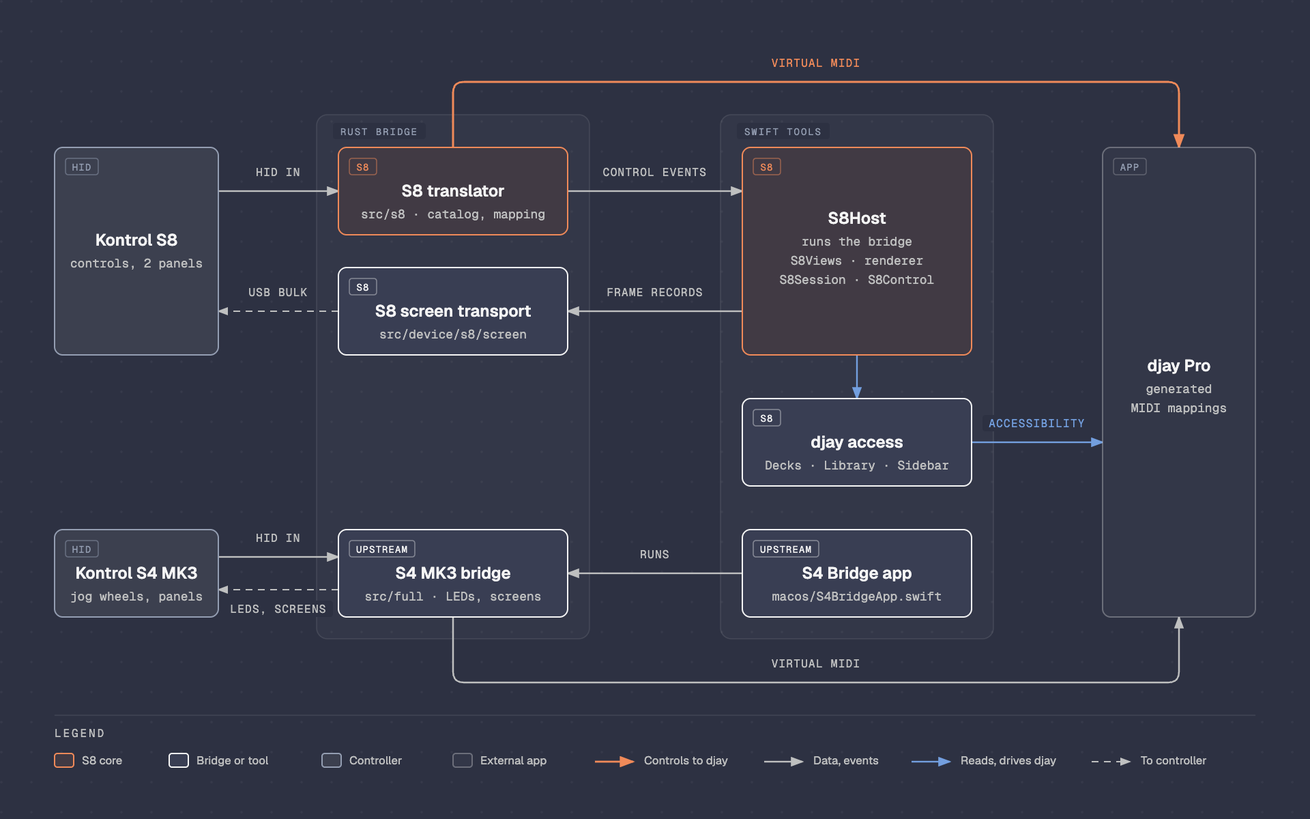
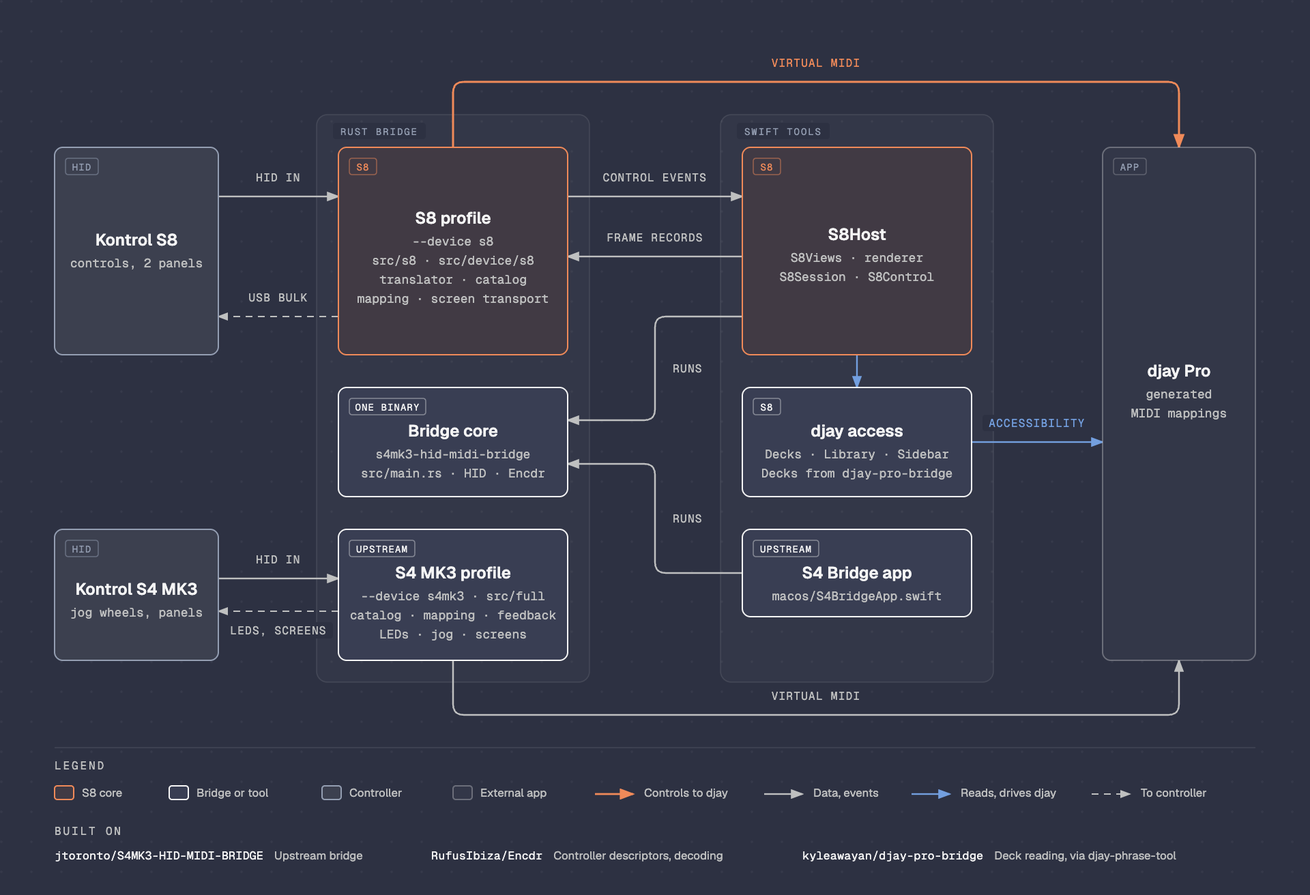
docs: show the one bridge binary and source repositories in the diagram
Both controllers run the same Rust binary with a device profile; S8Host and the S4 MK3 app each start it. The S4 MK3 profile lists its Rust modules, and the README links the repositories the bridge builds on. Refs #122.

diff --git a/docs/s8/images/architecture.html b/docs/s8/images/architecture.html
@@ -71,9 +71,9 @@
     <h1>Two controllers, one bridge, djay Pro</h1>
 
     <div class="diagram-container">
-      <svg viewBox="0 0 960 600" xmlns="http://www.w3.org/2000/svg" role="img" aria-labelledby="architecture-title architecture-desc">
+      <svg viewBox="0 0 960 656" xmlns="http://www.w3.org/2000/svg" role="img" aria-labelledby="architecture-title architecture-desc">
         <title id="architecture-title">Bridge architecture: Kontrol S8 and S4 MK3 to djay Pro</title>
-        <desc id="architecture-desc">The Rust bridge turns Kontrol S8 and S4 MK3 HID input into virtual MIDI for djay Pro, while the Swift S8Host reads djay through Accessibility and sends panel frames back to the S8 through the bridge.</desc>
+        <desc id="architecture-desc">One Rust bridge binary serves both controllers: S8Host and the S4 Bridge app each run it with their device profile, and it turns HID input into virtual MIDI for djay Pro, while S8Host reads djay through Accessibility and sends panel frames back to the S8.</desc>
         <defs>
           <marker id="arrow" markerWidth="8" markerHeight="6" refX="7" refY="3" orient="auto"><polygon points="0 0, 8 3, 0 6" fill="#bfc0c0"/></marker>
           <marker id="arrow-accent" markerWidth="8" markerHeight="6" refX="7" refY="3" orient="auto"><polygon points="0 0, 8 3, 0 6" fill="#f08a59"/></marker>
@@ -87,47 +87,50 @@
 
         <rect width="100%" height="100%" fill="url(#dots)" opacity="0.55"/>
         <!-- Zones (drawn before arrows and nodes) -->
-        <rect x="232" y="84" width="200" height="384" rx="8" fill="rgba(245,245,245,0.03)" stroke="rgba(245,245,245,0.10)" stroke-width="0.8"/>
+        <rect x="232" y="84" width="200" height="416" rx="8" fill="rgba(245,245,245,0.03)" stroke="rgba(245,245,245,0.10)" stroke-width="0.8"/>
         <rect x="244" y="90" width="68" height="12" rx="2" fill="#2d3142"/>
         <text x="278" y="99" fill="#949eb2" font-size="7" font-family="'Geist Mono', monospace" text-anchor="middle" letter-spacing="0.14em">RUST BRIDGE</text>
-        <rect x="528" y="84" width="200" height="384" rx="8" fill="rgba(245,245,245,0.03)" stroke="rgba(245,245,245,0.10)" stroke-width="0.8"/>
+        <rect x="528" y="84" width="200" height="416" rx="8" fill="rgba(245,245,245,0.03)" stroke="rgba(245,245,245,0.10)" stroke-width="0.8"/>
         <rect x="540" y="90" width="68" height="12" rx="2" fill="#2d3142"/>
         <text x="574" y="99" fill="#949eb2" font-size="7" font-family="'Geist Mono', monospace" text-anchor="middle" letter-spacing="0.14em">SWIFT TOOLS</text>
 
         <!-- Arrows first (behind boxes) -->
-        <line x1="160" y1="140" x2="248" y2="140" stroke="#bfc0c0" stroke-width="1.2" marker-end="url(#arrow)"/>
-        <line x1="248" y1="228" x2="160" y2="228" stroke="#bfc0c0" stroke-width="1" stroke-dasharray="5,4" marker-end="url(#arrow)"/>
+        <line x1="160" y1="144" x2="248" y2="144" stroke="#bfc0c0" stroke-width="1.2" marker-end="url(#arrow)"/>
+        <line x1="248" y1="232" x2="160" y2="232" stroke="#bfc0c0" stroke-width="1" stroke-dasharray="5,4" marker-end="url(#arrow)"/>
         <path d="M 332,108 V 68 Q 332,60 340,60 H 856 Q 864,60 864,68 V 108" fill="none" stroke="#f08a59" stroke-width="1.4" marker-end="url(#arrow-accent)"/>
-        <line x1="416" y1="140" x2="544" y2="140" stroke="#bfc0c0" stroke-width="1.2" marker-end="url(#arrow)"/>
-        <line x1="544" y1="228" x2="416" y2="228" stroke="#bfc0c0" stroke-width="1.2" marker-end="url(#arrow)"/>
-        <line x1="628" y1="260" x2="628" y2="292" stroke="#739fdf" stroke-width="1.2" marker-end="url(#arrow-link)"/>
+        <line x1="416" y1="144" x2="544" y2="144" stroke="#bfc0c0" stroke-width="1.2" marker-end="url(#arrow)"/>
+        <line x1="544" y1="188" x2="416" y2="188" stroke="#bfc0c0" stroke-width="1.2" marker-end="url(#arrow)"/>
+        <path d="M 544,232 H 488 Q 480,232 480,240 V 300 Q 480,308 472,308 H 416" fill="none" stroke="#bfc0c0" stroke-width="1.2" marker-end="url(#arrow)"/>
+        <line x1="628" y1="260" x2="628" y2="284" stroke="#739fdf" stroke-width="1.2" marker-end="url(#arrow-link)"/>
         <line x1="712" y1="324" x2="808" y2="324" stroke="#739fdf" stroke-width="1.2" marker-end="url(#arrow-link)"/>
-        <line x1="160" y1="408" x2="248" y2="408" stroke="#bfc0c0" stroke-width="1.2" marker-end="url(#arrow)"/>
-        <line x1="248" y1="432" x2="160" y2="432" stroke="#bfc0c0" stroke-width="1" stroke-dasharray="5,4" marker-end="url(#arrow)"/>
-        <line x1="544" y1="420" x2="416" y2="420" stroke="#bfc0c0" stroke-width="1.2" marker-end="url(#arrow)"/>
-        <path d="M 332,452 V 492 Q 332,500 340,500 H 856 Q 864,500 864,492 V 452" fill="none" stroke="#bfc0c0" stroke-width="1.2" marker-end="url(#arrow)"/>
+        <path d="M 544,420 H 488 Q 480,420 480,412 V 348 Q 480,340 472,340 H 416" fill="none" stroke="#bfc0c0" stroke-width="1.2" marker-end="url(#arrow)"/>
+        <line x1="160" y1="424" x2="248" y2="424" stroke="#bfc0c0" stroke-width="1.2" marker-end="url(#arrow)"/>
+        <line x1="248" y1="448" x2="160" y2="448" stroke="#bfc0c0" stroke-width="1" stroke-dasharray="5,4" marker-end="url(#arrow)"/>
+        <path d="M 332,484 V 516 Q 332,524 340,524 H 856 Q 864,524 864,516 V 484" fill="none" stroke="#bfc0c0" stroke-width="1.2" marker-end="url(#arrow)"/>
 
         <!-- Arrow labels -->
-        <rect x="182" y="120" width="44" height="12" rx="2" fill="#2d3142"/>
-        <text x="204" y="129" fill="#bfc0c0" font-size="8" font-family="'Geist Mono', monospace" text-anchor="middle" letter-spacing="0.08em">HID IN</text>
-        <rect x="178" y="208" width="52" height="12" rx="2" fill="#2d3142"/>
-        <text x="204" y="217" fill="#bfc0c0" font-size="8" font-family="'Geist Mono', monospace" text-anchor="middle" letter-spacing="0.08em">USB BULK</text>
+        <rect x="182" y="124" width="44" height="12" rx="2" fill="#2d3142"/>
+        <text x="204" y="133" fill="#bfc0c0" font-size="8" font-family="'Geist Mono', monospace" text-anchor="middle" letter-spacing="0.08em">HID IN</text>
+        <rect x="178" y="212" width="52" height="12" rx="2" fill="#2d3142"/>
+        <text x="204" y="221" fill="#bfc0c0" font-size="8" font-family="'Geist Mono', monospace" text-anchor="middle" letter-spacing="0.08em">USB BULK</text>
         <rect x="560" y="40" width="76" height="12" rx="2" fill="#2d3142"/>
         <text x="598" y="49" fill="#f08a59" font-size="8" font-family="'Geist Mono', monospace" text-anchor="middle" letter-spacing="0.08em">VIRTUAL MIDI</text>
-        <rect x="436" y="120" width="88" height="12" rx="2" fill="#2d3142"/>
-        <text x="480" y="129" fill="#bfc0c0" font-size="8" font-family="'Geist Mono', monospace" text-anchor="middle" letter-spacing="0.08em">CONTROL EVENTS</text>
-        <rect x="440" y="208" width="80" height="12" rx="2" fill="#2d3142"/>
-        <text x="480" y="217" fill="#bfc0c0" font-size="8" font-family="'Geist Mono', monospace" text-anchor="middle" letter-spacing="0.08em">FRAME RECORDS</text>
+        <rect x="436" y="124" width="88" height="12" rx="2" fill="#2d3142"/>
+        <text x="480" y="133" fill="#bfc0c0" font-size="8" font-family="'Geist Mono', monospace" text-anchor="middle" letter-spacing="0.08em">CONTROL EVENTS</text>
+        <rect x="440" y="168" width="80" height="12" rx="2" fill="#2d3142"/>
+        <text x="480" y="177" fill="#bfc0c0" font-size="8" font-family="'Geist Mono', monospace" text-anchor="middle" letter-spacing="0.08em">FRAME RECORDS</text>
+        <rect x="488" y="264" width="32" height="12" rx="2" fill="#2d3142"/>
+        <text x="504" y="273" fill="#bfc0c0" font-size="8" font-family="'Geist Mono', monospace" text-anchor="middle" letter-spacing="0.08em">RUNS</text>
         <rect x="720" y="304" width="80" height="12" rx="2" fill="#2d3142"/>
         <text x="760" y="313" fill="#739fdf" font-size="8" font-family="'Geist Mono', monospace" text-anchor="middle" letter-spacing="0.08em">ACCESSIBILITY</text>
-        <rect x="182" y="388" width="44" height="12" rx="2" fill="#2d3142"/>
-        <text x="204" y="397" fill="#bfc0c0" font-size="8" font-family="'Geist Mono', monospace" text-anchor="middle" letter-spacing="0.08em">HID IN</text>
-        <rect x="164" y="440" width="80" height="12" rx="2" fill="#2d3142"/>
-        <text x="204" y="449" fill="#bfc0c0" font-size="8" font-family="'Geist Mono', monospace" text-anchor="middle" letter-spacing="0.08em">LEDS, SCREENS</text>
-        <rect x="464" y="400" width="32" height="12" rx="2" fill="#2d3142"/>
-        <text x="480" y="409" fill="#bfc0c0" font-size="8" font-family="'Geist Mono', monospace" text-anchor="middle" letter-spacing="0.08em">RUNS</text>
-        <rect x="560" y="480" width="76" height="12" rx="2" fill="#2d3142"/>
-        <text x="598" y="489" fill="#bfc0c0" font-size="8" font-family="'Geist Mono', monospace" text-anchor="middle" letter-spacing="0.08em">VIRTUAL MIDI</text>
+        <rect x="488" y="374" width="32" height="12" rx="2" fill="#2d3142"/>
+        <text x="504" y="383" fill="#bfc0c0" font-size="8" font-family="'Geist Mono', monospace" text-anchor="middle" letter-spacing="0.08em">RUNS</text>
+        <rect x="182" y="404" width="44" height="12" rx="2" fill="#2d3142"/>
+        <text x="204" y="413" fill="#bfc0c0" font-size="8" font-family="'Geist Mono', monospace" text-anchor="middle" letter-spacing="0.08em">HID IN</text>
+        <rect x="164" y="456" width="80" height="12" rx="2" fill="#2d3142"/>
+        <text x="204" y="465" fill="#bfc0c0" font-size="8" font-family="'Geist Mono', monospace" text-anchor="middle" letter-spacing="0.08em">LEDS, SCREENS</text>
+        <rect x="560" y="504" width="76" height="12" rx="2" fill="#2d3142"/>
+        <text x="598" y="513" fill="#bfc0c0" font-size="8" font-family="'Geist Mono', monospace" text-anchor="middle" letter-spacing="0.08em">VIRTUAL MIDI</text>
 
         <!-- Node: Kontrol S8 -->
         <rect x="40" y="108" width="120" height="152" rx="6" fill="#2d3142"/>
@@ -137,49 +140,55 @@
         <text x="100" y="180" fill="#f5f5f5" font-size="12" font-weight="600" font-family="'Geist', sans-serif" text-anchor="middle">Kontrol S8</text>
         <text x="100" y="196" fill="#bfc0c0" font-size="9" font-family="'Geist Mono', monospace" text-anchor="middle">controls, 2 panels</text>
         <!-- Node: Kontrol S4 MK3 -->
-        <rect x="40" y="388" width="120" height="64" rx="6" fill="#2d3142"/>
-        <rect x="40" y="388" width="120" height="64" rx="6" fill="rgba(191,192,192,0.10)" stroke="#949eb2" stroke-width="1"/>
+        <rect x="40" y="388" width="120" height="96" rx="6" fill="#2d3142"/>
+        <rect x="40" y="388" width="120" height="96" rx="6" fill="rgba(191,192,192,0.10)" stroke="#949eb2" stroke-width="1"/>
         <rect x="48" y="396" width="24" height="12" rx="2" fill="transparent" stroke="rgba(148,158,178,0.50)" stroke-width="0.8"/>
         <text x="60" y="405" fill="#949eb2" font-size="7" font-family="'Geist Mono', monospace" text-anchor="middle" letter-spacing="0.08em">HID</text>
-        <text x="100" y="424" fill="#f5f5f5" font-size="12" font-weight="600" font-family="'Geist', sans-serif" text-anchor="middle">Kontrol S4 MK3</text>
-        <text x="100" y="440" fill="#bfc0c0" font-size="9" font-family="'Geist Mono', monospace" text-anchor="middle">jog wheels, panels</text>
-        <!-- Node: S8 translator (focal) -->
-        <rect x="248" y="108" width="168" height="64" rx="6" fill="#2d3142"/>
-        <rect x="248" y="108" width="168" height="64" rx="6" fill="rgba(240,138,89,0.10)" stroke="#f08a59" stroke-width="1"/>
+        <text x="100" y="436" fill="#f5f5f5" font-size="12" font-weight="600" font-family="'Geist', sans-serif" text-anchor="middle">Kontrol S4 MK3</text>
+        <text x="100" y="452" fill="#bfc0c0" font-size="9" font-family="'Geist Mono', monospace" text-anchor="middle">jog wheels, panels</text>
+        <!-- Node: S8 profile (focal) -->
+        <rect x="248" y="108" width="168" height="152" rx="6" fill="#2d3142"/>
+        <rect x="248" y="108" width="168" height="152" rx="6" fill="rgba(240,138,89,0.10)" stroke="#f08a59" stroke-width="1"/>
         <rect x="256" y="116" width="20" height="12" rx="2" fill="transparent" stroke="rgba(240,138,89,0.50)" stroke-width="0.8"/>
         <text x="266" y="125" fill="#f08a59" font-size="7" font-family="'Geist Mono', monospace" text-anchor="middle" letter-spacing="0.08em">S8</text>
-        <text x="332" y="144" fill="#f5f5f5" font-size="12" font-weight="600" font-family="'Geist', sans-serif" text-anchor="middle">S8 translator</text>
-        <text x="332" y="160" fill="#bfc0c0" font-size="9" font-family="'Geist Mono', monospace" text-anchor="middle">src/s8 · catalog, mapping</text>
-        <!-- Node: S8 screen transport -->
-        <rect x="248" y="196" width="168" height="64" rx="6" fill="#2d3142"/>
-        <rect x="248" y="196" width="168" height="64" rx="6" fill="#393e53" stroke="#f5f5f5" stroke-width="1"/>
-        <rect x="256" y="204" width="20" height="12" rx="2" fill="transparent" stroke="rgba(245,245,245,0.40)" stroke-width="0.8"/>
-        <text x="266" y="213" fill="#f5f5f5" font-size="7" font-family="'Geist Mono', monospace" text-anchor="middle" letter-spacing="0.08em">S8</text>
-        <text x="332" y="232" fill="#f5f5f5" font-size="12" font-weight="600" font-family="'Geist', sans-serif" text-anchor="middle">S8 screen transport</text>
-        <text x="332" y="248" fill="#bfc0c0" font-size="9" font-family="'Geist Mono', monospace" text-anchor="middle">src/device/s8/screen</text>
-        <!-- Node: S4 MK3 bridge -->
-        <rect x="248" y="388" width="168" height="64" rx="6" fill="#2d3142"/>
-        <rect x="248" y="388" width="168" height="64" rx="6" fill="#393e53" stroke="#f5f5f5" stroke-width="1"/>
+        <text x="332" y="164" fill="#f5f5f5" font-size="12" font-weight="600" font-family="'Geist', sans-serif" text-anchor="middle">S8 profile</text>
+        <text x="332" y="180" fill="#bfc0c0" font-size="9" font-family="'Geist Mono', monospace" text-anchor="middle">--device s8</text>
+        <text x="332" y="194" fill="#bfc0c0" font-size="9" font-family="'Geist Mono', monospace" text-anchor="middle">src/s8 · src/device/s8</text>
+        <text x="332" y="208" fill="#bfc0c0" font-size="9" font-family="'Geist Mono', monospace" text-anchor="middle">translator · catalog</text>
+        <text x="332" y="222" fill="#bfc0c0" font-size="9" font-family="'Geist Mono', monospace" text-anchor="middle">mapping · screen transport</text>
+        <!-- Node: Bridge core -->
+        <rect x="248" y="284" width="168" height="80" rx="6" fill="#2d3142"/>
+        <rect x="248" y="284" width="168" height="80" rx="6" fill="#393e53" stroke="#f5f5f5" stroke-width="1"/>
+        <rect x="256" y="292" width="56" height="12" rx="2" fill="transparent" stroke="rgba(245,245,245,0.40)" stroke-width="0.8"/>
+        <text x="284" y="301" fill="#f5f5f5" font-size="7" font-family="'Geist Mono', monospace" text-anchor="middle" letter-spacing="0.08em">ONE BINARY</text>
+        <text x="332" y="320" fill="#f5f5f5" font-size="12" font-weight="600" font-family="'Geist', sans-serif" text-anchor="middle">Bridge core</text>
+        <text x="332" y="336" fill="#bfc0c0" font-size="9" font-family="'Geist Mono', monospace" text-anchor="middle">s4mk3-hid-midi-bridge</text>
+        <text x="332" y="350" fill="#bfc0c0" font-size="9" font-family="'Geist Mono', monospace" text-anchor="middle">src/main.rs · HID · Encdr</text>
+        <!-- Node: S4 MK3 profile -->
+        <rect x="248" y="388" width="168" height="96" rx="6" fill="#2d3142"/>
+        <rect x="248" y="388" width="168" height="96" rx="6" fill="#393e53" stroke="#f5f5f5" stroke-width="1"/>
         <rect x="256" y="396" width="48" height="12" rx="2" fill="transparent" stroke="rgba(245,245,245,0.40)" stroke-width="0.8"/>
         <text x="280" y="405" fill="#f5f5f5" font-size="7" font-family="'Geist Mono', monospace" text-anchor="middle" letter-spacing="0.08em">UPSTREAM</text>
-        <text x="332" y="424" fill="#f5f5f5" font-size="12" font-weight="600" font-family="'Geist', sans-serif" text-anchor="middle">S4 MK3 bridge</text>
-        <text x="332" y="440" fill="#bfc0c0" font-size="9" font-family="'Geist Mono', monospace" text-anchor="middle">src/full · LEDs, screens</text>
+        <text x="332" y="424" fill="#f5f5f5" font-size="12" font-weight="600" font-family="'Geist', sans-serif" text-anchor="middle">S4 MK3 profile</text>
+        <text x="332" y="440" fill="#bfc0c0" font-size="9" font-family="'Geist Mono', monospace" text-anchor="middle">--device s4mk3 · src/full</text>
+        <text x="332" y="454" fill="#bfc0c0" font-size="9" font-family="'Geist Mono', monospace" text-anchor="middle">catalog · mapping · feedback</text>
+        <text x="332" y="468" fill="#bfc0c0" font-size="9" font-family="'Geist Mono', monospace" text-anchor="middle">LEDs · jog · screens</text>
         <!-- Node: S8Host (focal) -->
         <rect x="544" y="108" width="168" height="152" rx="6" fill="#2d3142"/>
         <rect x="544" y="108" width="168" height="152" rx="6" fill="rgba(240,138,89,0.10)" stroke="#f08a59" stroke-width="1"/>
         <rect x="552" y="116" width="20" height="12" rx="2" fill="transparent" stroke="rgba(240,138,89,0.50)" stroke-width="0.8"/>
         <text x="562" y="125" fill="#f08a59" font-size="7" font-family="'Geist Mono', monospace" text-anchor="middle" letter-spacing="0.08em">S8</text>
-        <text x="628" y="164" fill="#f5f5f5" font-size="12" font-weight="600" font-family="'Geist', sans-serif" text-anchor="middle">S8Host</text>
-        <text x="628" y="180" fill="#bfc0c0" font-size="9" font-family="'Geist Mono', monospace" text-anchor="middle">runs the bridge</text>
-        <text x="628" y="194" fill="#bfc0c0" font-size="9" font-family="'Geist Mono', monospace" text-anchor="middle">S8Views · renderer</text>
-        <text x="628" y="208" fill="#bfc0c0" font-size="9" font-family="'Geist Mono', monospace" text-anchor="middle">S8Session · S8Control</text>
+        <text x="628" y="176" fill="#f5f5f5" font-size="12" font-weight="600" font-family="'Geist', sans-serif" text-anchor="middle">S8Host</text>
+        <text x="628" y="192" fill="#bfc0c0" font-size="9" font-family="'Geist Mono', monospace" text-anchor="middle">S8Views · renderer</text>
+        <text x="628" y="206" fill="#bfc0c0" font-size="9" font-family="'Geist Mono', monospace" text-anchor="middle">S8Session · S8Control</text>
         <!-- Node: djay access -->
-        <rect x="544" y="292" width="168" height="64" rx="6" fill="#2d3142"/>
-        <rect x="544" y="292" width="168" height="64" rx="6" fill="#393e53" stroke="#f5f5f5" stroke-width="1"/>
-        <rect x="552" y="300" width="20" height="12" rx="2" fill="transparent" stroke="rgba(245,245,245,0.40)" stroke-width="0.8"/>
-        <text x="562" y="309" fill="#f5f5f5" font-size="7" font-family="'Geist Mono', monospace" text-anchor="middle" letter-spacing="0.08em">S8</text>
-        <text x="628" y="328" fill="#f5f5f5" font-size="12" font-weight="600" font-family="'Geist', sans-serif" text-anchor="middle">djay access</text>
-        <text x="628" y="344" fill="#bfc0c0" font-size="9" font-family="'Geist Mono', monospace" text-anchor="middle">Decks · Library · Sidebar</text>
+        <rect x="544" y="284" width="168" height="80" rx="6" fill="#2d3142"/>
+        <rect x="544" y="284" width="168" height="80" rx="6" fill="#393e53" stroke="#f5f5f5" stroke-width="1"/>
+        <rect x="552" y="292" width="20" height="12" rx="2" fill="transparent" stroke="rgba(245,245,245,0.40)" stroke-width="0.8"/>
+        <text x="562" y="301" fill="#f5f5f5" font-size="7" font-family="'Geist Mono', monospace" text-anchor="middle" letter-spacing="0.08em">S8</text>
+        <text x="628" y="320" fill="#f5f5f5" font-size="12" font-weight="600" font-family="'Geist', sans-serif" text-anchor="middle">djay access</text>
+        <text x="628" y="336" fill="#bfc0c0" font-size="9" font-family="'Geist Mono', monospace" text-anchor="middle">Decks · Library · Sidebar</text>
+        <text x="628" y="350" fill="#bfc0c0" font-size="9" font-family="'Geist Mono', monospace" text-anchor="middle">Decks from djay-pro-bridge</text>
         <!-- Node: S4 Bridge app -->
         <rect x="544" y="388" width="168" height="64" rx="6" fill="#2d3142"/>
         <rect x="544" y="388" width="168" height="64" rx="6" fill="#393e53" stroke="#f5f5f5" stroke-width="1"/>
@@ -188,32 +197,37 @@
         <text x="628" y="424" fill="#f5f5f5" font-size="12" font-weight="600" font-family="'Geist', sans-serif" text-anchor="middle">S4 Bridge app</text>
         <text x="628" y="440" fill="#bfc0c0" font-size="9" font-family="'Geist Mono', monospace" text-anchor="middle">macos/S4BridgeApp.swift</text>
         <!-- Node: djay Pro -->
-        <rect x="808" y="108" width="112" height="344" rx="6" fill="#2d3142"/>
-        <rect x="808" y="108" width="112" height="344" rx="6" fill="rgba(245,245,245,0.03)" stroke="rgba(245,245,245,0.30)" stroke-width="1"/>
+        <rect x="808" y="108" width="112" height="376" rx="6" fill="#2d3142"/>
+        <rect x="808" y="108" width="112" height="376" rx="6" fill="rgba(245,245,245,0.03)" stroke="rgba(245,245,245,0.30)" stroke-width="1"/>
         <rect x="816" y="116" width="24" height="12" rx="2" fill="transparent" stroke="rgba(245,245,245,0.22)" stroke-width="0.8"/>
         <text x="828" y="125" fill="#949eb2" font-size="7" font-family="'Geist Mono', monospace" text-anchor="middle" letter-spacing="0.08em">APP</text>
-        <text x="864" y="272" fill="#f5f5f5" font-size="12" font-weight="600" font-family="'Geist', sans-serif" text-anchor="middle">djay Pro</text>
-        <text x="864" y="288" fill="#bfc0c0" font-size="9" font-family="'Geist Mono', monospace" text-anchor="middle">generated</text>
-        <text x="864" y="302" fill="#bfc0c0" font-size="9" font-family="'Geist Mono', monospace" text-anchor="middle">MIDI mappings</text>
+        <text x="864" y="276" fill="#f5f5f5" font-size="12" font-weight="600" font-family="'Geist', sans-serif" text-anchor="middle">djay Pro</text>
+        <text x="864" y="292" fill="#bfc0c0" font-size="9" font-family="'Geist Mono', monospace" text-anchor="middle">generated</text>
+        <text x="864" y="306" fill="#bfc0c0" font-size="9" font-family="'Geist Mono', monospace" text-anchor="middle">MIDI mappings</text>
         <!-- Legend strip -->
-        <line x1="40" y1="524" x2="920" y2="524" stroke="rgba(245,245,245,0.10)" stroke-width="0.8"/>
-        <text x="40" y="540" fill="#bfc0c0" font-size="8" font-family="'Geist Mono', monospace" letter-spacing="0.18em">LEGEND</text>
-        <rect x="40" y="552" width="14" height="10" rx="2" fill="rgba(240,138,89,0.10)" stroke="#f08a59" stroke-width="1"/>
-        <text x="60" y="560" fill="#bfc0c0" font-size="8.5" font-family="'Geist', sans-serif">S8 core</text>
-        <rect x="124" y="552" width="14" height="10" rx="2" fill="#393e53" stroke="#f5f5f5" stroke-width="1"/>
-        <text x="144" y="560" fill="#bfc0c0" font-size="8.5" font-family="'Geist', sans-serif">Bridge or tool</text>
-        <rect x="236" y="552" width="14" height="10" rx="2" fill="rgba(191,192,192,0.10)" stroke="#949eb2" stroke-width="1"/>
-        <text x="256" y="560" fill="#bfc0c0" font-size="8.5" font-family="'Geist', sans-serif">Controller</text>
-        <rect x="332" y="552" width="14" height="10" rx="2" fill="rgba(245,245,245,0.03)" stroke="rgba(245,245,245,0.30)" stroke-width="1"/>
-        <text x="352" y="560" fill="#bfc0c0" font-size="8.5" font-family="'Geist', sans-serif">External app</text>
-        <line x1="436" y1="558" x2="464" y2="558" stroke="#f08a59" stroke-width="1.4" marker-end="url(#arrow-accent)"/>
-        <text x="472" y="560" fill="#bfc0c0" font-size="8.5" font-family="'Geist', sans-serif">Controls to djay</text>
-        <line x1="560" y1="558" x2="588" y2="558" stroke="#bfc0c0" stroke-width="1.2" marker-end="url(#arrow)"/>
-        <text x="596" y="560" fill="#bfc0c0" font-size="8.5" font-family="'Geist', sans-serif">Data, events</text>
-        <line x1="668" y1="558" x2="696" y2="558" stroke="#739fdf" stroke-width="1.2" marker-end="url(#arrow-link)"/>
-        <text x="704" y="560" fill="#bfc0c0" font-size="8.5" font-family="'Geist', sans-serif">Reads, drives djay</text>
-        <line x1="800" y1="558" x2="828" y2="558" stroke="#bfc0c0" stroke-width="1" stroke-dasharray="5,4" marker-end="url(#arrow)"/>
-        <text x="836" y="560" fill="#bfc0c0" font-size="8.5" font-family="'Geist', sans-serif">To controller</text>
+        <line x1="40" y1="548" x2="920" y2="548" stroke="rgba(245,245,245,0.10)" stroke-width="0.8"/>
+        <text x="40" y="564" fill="#bfc0c0" font-size="8" font-family="'Geist Mono', monospace" letter-spacing="0.18em">LEGEND</text>
+        <rect x="40" y="576" width="14" height="10" rx="2" fill="rgba(240,138,89,0.10)" stroke="#f08a59" stroke-width="1"/>
+        <text x="60" y="584" fill="#bfc0c0" font-size="8.5" font-family="'Geist', sans-serif">S8 core</text>
+        <rect x="124" y="576" width="14" height="10" rx="2" fill="#393e53" stroke="#f5f5f5" stroke-width="1"/>
+        <text x="144" y="584" fill="#bfc0c0" font-size="8.5" font-family="'Geist', sans-serif">Bridge or tool</text>
+        <rect x="236" y="576" width="14" height="10" rx="2" fill="rgba(191,192,192,0.10)" stroke="#949eb2" stroke-width="1"/>
+        <text x="256" y="584" fill="#bfc0c0" font-size="8.5" font-family="'Geist', sans-serif">Controller</text>
+        <rect x="332" y="576" width="14" height="10" rx="2" fill="rgba(245,245,245,0.03)" stroke="rgba(245,245,245,0.30)" stroke-width="1"/>
+        <text x="352" y="584" fill="#bfc0c0" font-size="8.5" font-family="'Geist', sans-serif">External app</text>
+        <line x1="436" y1="582" x2="464" y2="582" stroke="#f08a59" stroke-width="1.4" marker-end="url(#arrow-accent)"/>
+        <text x="472" y="584" fill="#bfc0c0" font-size="8.5" font-family="'Geist', sans-serif">Controls to djay</text>
+        <line x1="560" y1="582" x2="588" y2="582" stroke="#bfc0c0" stroke-width="1.2" marker-end="url(#arrow)"/>
+        <text x="596" y="584" fill="#bfc0c0" font-size="8.5" font-family="'Geist', sans-serif">Data, events</text>
+        <line x1="668" y1="582" x2="696" y2="582" stroke="#739fdf" stroke-width="1.2" marker-end="url(#arrow-link)"/>
+        <text x="704" y="584" fill="#bfc0c0" font-size="8.5" font-family="'Geist', sans-serif">Reads, drives djay</text>
+        <line x1="800" y1="582" x2="828" y2="582" stroke="#bfc0c0" stroke-width="1" stroke-dasharray="5,4" marker-end="url(#arrow)"/>
+        <text x="836" y="584" fill="#bfc0c0" font-size="8.5" font-family="'Geist', sans-serif">To controller</text>
+        <!-- Built on -->
+        <text x="40" y="612" fill="#bfc0c0" font-size="8" font-family="'Geist Mono', monospace" letter-spacing="0.18em">BUILT ON</text>
+        <text x="40" y="630" font-size="8.5"><tspan fill="#f5f5f5" font-family="'Geist Mono', monospace">jtoronto/S4MK3-HID-MIDI-BRIDGE</tspan><tspan dx="8" fill="#bfc0c0" font-family="'Geist', sans-serif">Upstream bridge</tspan></text>
+        <text x="316" y="630" font-size="8.5"><tspan fill="#f5f5f5" font-family="'Geist Mono', monospace">RufusIbiza/Encdr</tspan><tspan dx="8" fill="#bfc0c0" font-family="'Geist', sans-serif">Controller descriptors, decoding</tspan></text>
+        <text x="588" y="630" font-size="8.5"><tspan fill="#f5f5f5" font-family="'Geist Mono', monospace">kyleawayan/djay-pro-bridge</tspan><tspan dx="8" fill="#bfc0c0" font-family="'Geist', sans-serif">Deck reading, via djay-phrase-tool</tspan></text>
 
       </svg>
     </div>

diff --git a/README.md b/README.md
@@ -45,9 +45,21 @@ version of the menu-bar app runs it.
 
 ![Architecture of the bridge and the S8 tools](docs/s8/images/architecture.png)
 
-How the parts fit together. The S8 path is this fork's work; the S4 MK3 path
-comes from upstream and is shown in outline only. The picture is exported from
+How the parts fit together. Both controllers use one Rust bridge binary:
+`S8Host` and the S4 MK3 menu-bar app each start it with their own device
+profile. The S8 profile and the Swift S8 tools are this fork's work; the rest
+comes from upstream. The picture is exported from
 [architecture.html](docs/s8/images/architecture.html).
+
+The bridge builds on these repositories:
+
+- [jtoronto/S4MK3-HID-MIDI-BRIDGE](https://github.com/jtoronto/S4MK3-HID-MIDI-BRIDGE):
+  the S4 MK3 bridge this fork extends.
+- [RufusIbiza/Encdr](https://github.com/RufusIbiza/Encdr): controller
+  descriptors and HID decoding.
+- [kyleawayan/djay-pro-bridge](https://github.com/kyleawayan/djay-pro-bridge):
+  reading Djay's decks through Accessibility. `DjayDecks` is ported from a
+  prototype built on it.
 
 To use it you need this repository, [mise](https://mise.jdx.dev) for the
 pinned Rust toolchain, the S8 connected by USB, and Djay Pro with PRO access.
